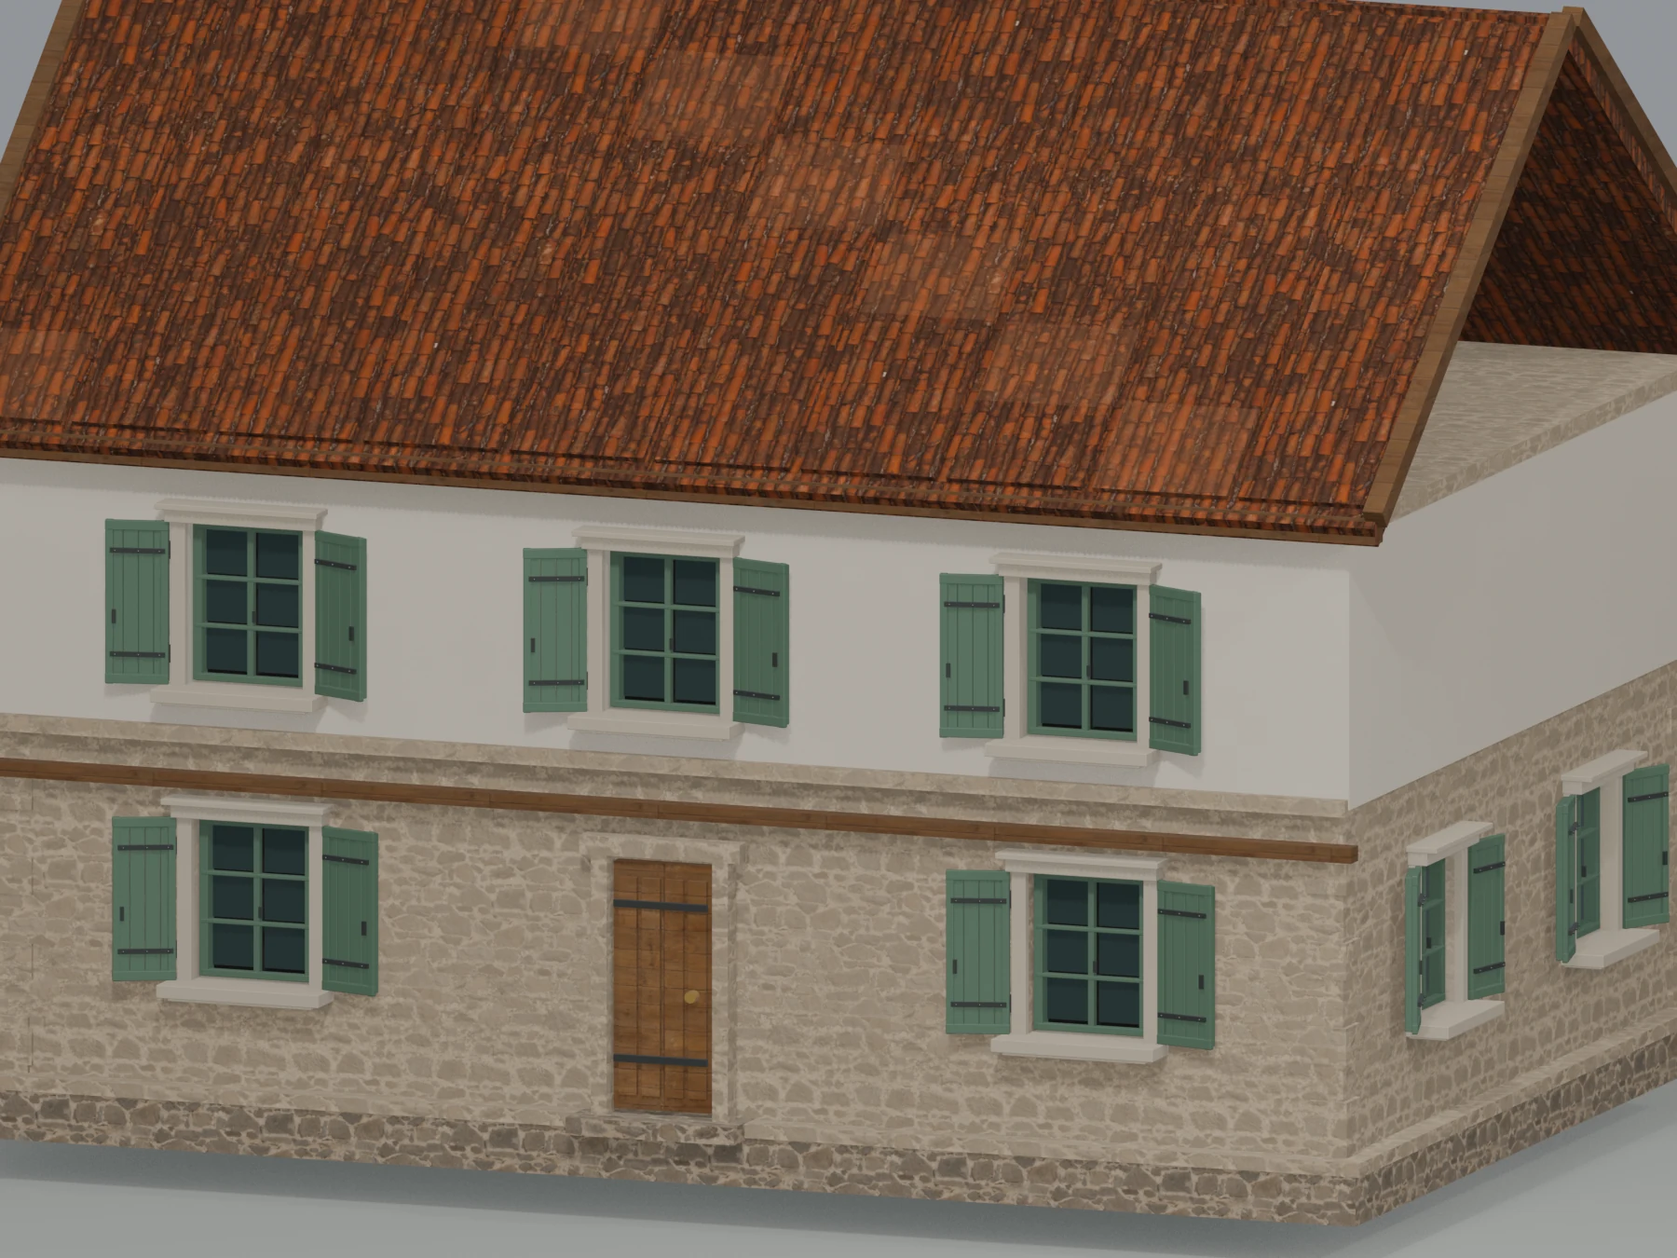
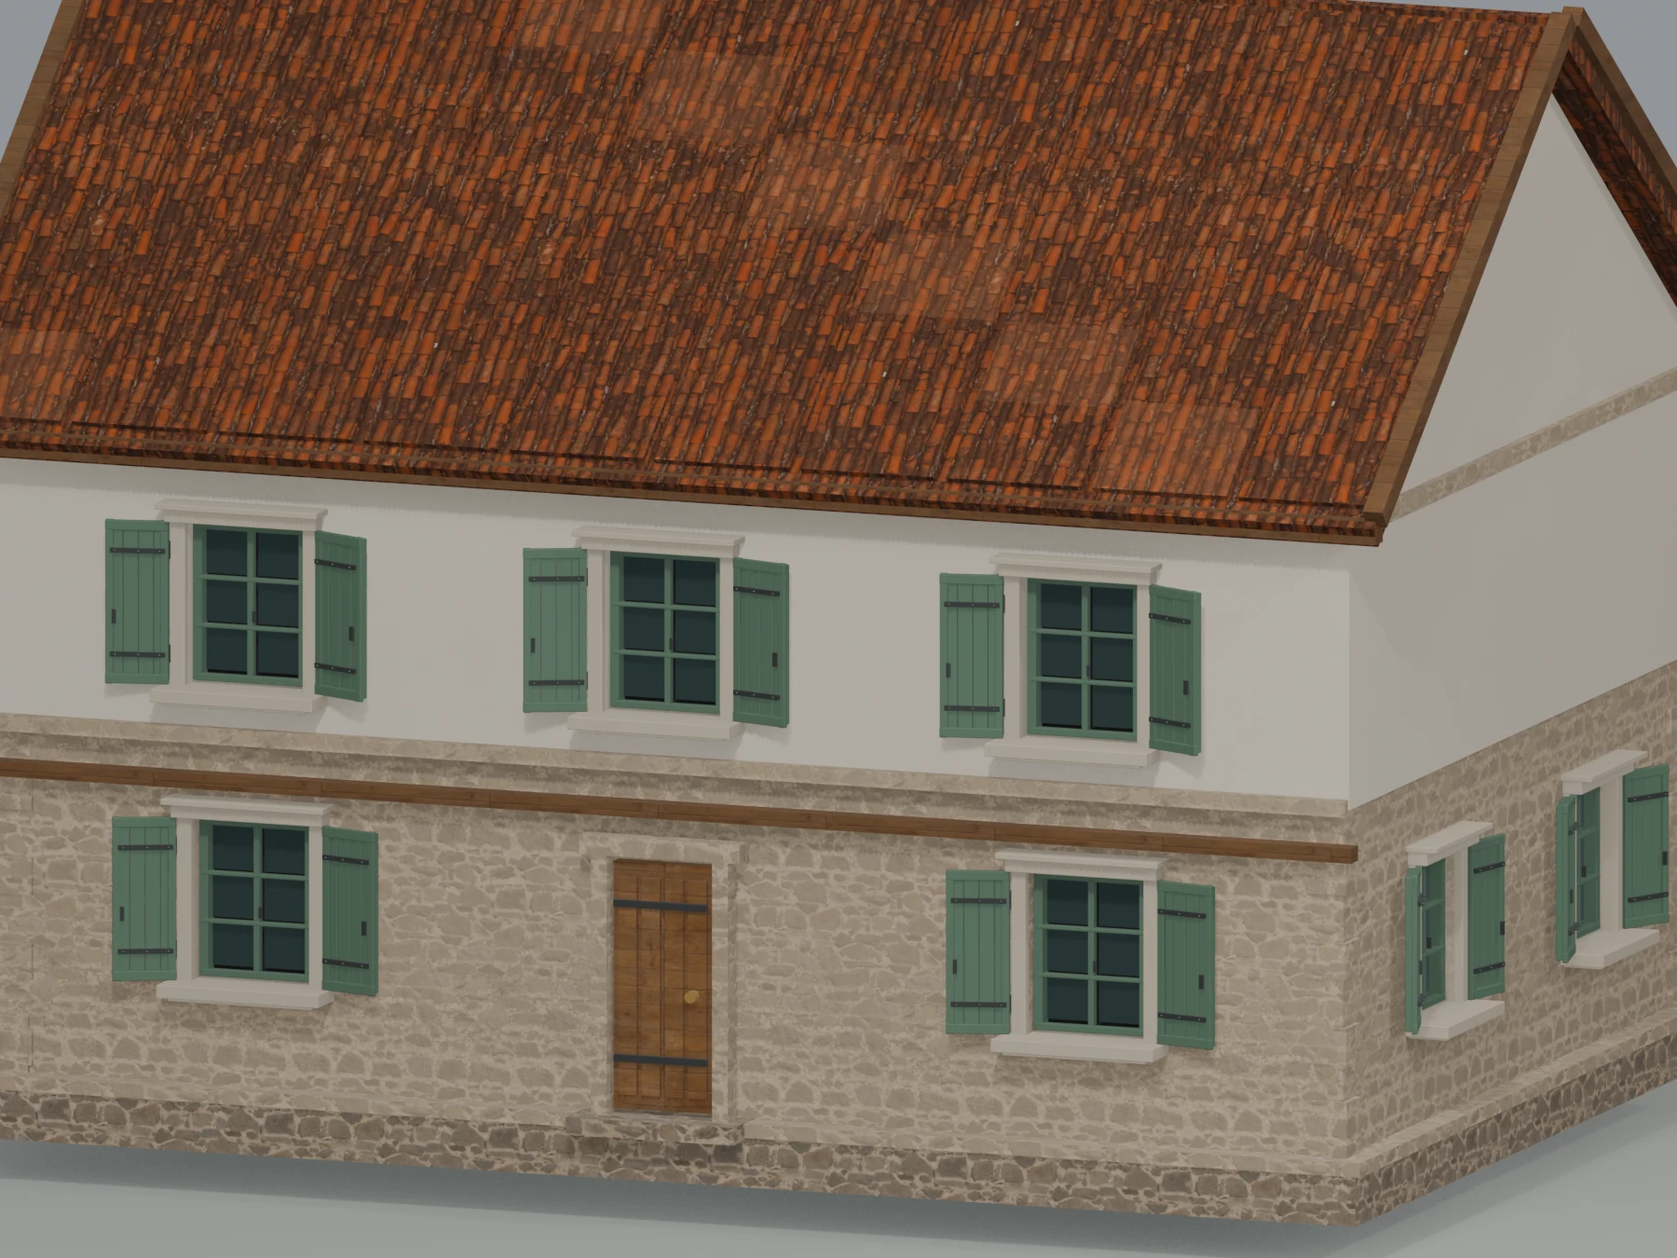
Close missing gable walls in house and town hall showcase models

Changed region(s): [[0.84, 0.0622, 1.0, 0.4044]]

diff --git a/site/model-closeups.html b/site/model-closeups.html
@@ -330,13 +330,13 @@ footer a{color:var(--gold)}
   </a>
   <div class="caption"><div class="eyebrow">Town interiors</div><h3>Warehouse Ground</h3><p>Close-up studio render of the exported Warehouse Ground model.</p><span class="credit">Big Sim model · see CREDITS.md for source notes</span><code class="source">art/city_buildings/interiors/warehouse_ground.glb</code></div>
 </article><article class="card">
-  <a class="image" href="images/gallery/model-closeup-art-city-buildings-models-apothecary.webp?v=town-windows-20261024" aria-label="Open full size image: Apothecary">
-    <img src="images/gallery/model-closeup-art-city-buildings-models-apothecary.webp?v=town-windows-20261024" alt="Apothecary — Close-up studio render of the exported Apothecary model." loading="lazy">
+  <a class="image" href="images/gallery/model-closeup-art-city-buildings-models-apothecary.webp?v=closed-roof-gables-20261024" aria-label="Open full size image: Apothecary">
+    <img src="images/gallery/model-closeup-art-city-buildings-models-apothecary.webp?v=closed-roof-gables-20261024" alt="Apothecary — Close-up studio render of the exported Apothecary model." loading="lazy">
   </a>
   <div class="caption"><div class="eyebrow">Town exteriors</div><h3>Apothecary</h3><p>Close-up studio render of the exported Apothecary model.</p><span class="credit">Big Sim model · see CREDITS.md for source notes</span><code class="source">art/city_buildings/models/apothecary.glb</code></div>
 </article><article class="card">
-  <a class="image" href="images/gallery/model-closeup-art-city-buildings-models-bakers-shop.webp?v=town-windows-20261024" aria-label="Open full size image: Bakers Shop">
-    <img src="images/gallery/model-closeup-art-city-buildings-models-bakers-shop.webp?v=town-windows-20261024" alt="Bakers Shop — Close-up studio render of the exported Bakers Shop model." loading="lazy">
+  <a class="image" href="images/gallery/model-closeup-art-city-buildings-models-bakers-shop.webp?v=closed-roof-gables-20261024" aria-label="Open full size image: Bakers Shop">
+    <img src="images/gallery/model-closeup-art-city-buildings-models-bakers-shop.webp?v=closed-roof-gables-20261024" alt="Bakers Shop — Close-up studio render of the exported Bakers Shop model." loading="lazy">
   </a>
   <div class="caption"><div class="eyebrow">Town exteriors</div><h3>Bakers Shop</h3><p>Close-up studio render of the exported Bakers Shop model.</p><span class="credit">Big Sim model · see CREDITS.md for source notes</span><code class="source">art/city_buildings/models/bakers_shop.glb</code></div>
 </article><article class="card">
@@ -345,8 +345,8 @@ footer a{color:var(--gold)}
   </a>
   <div class="caption"><div class="eyebrow">Town exteriors</div><h3>Chapel</h3><p>Close-up studio render of the exported Chapel model.</p><span class="credit">Big Sim model · see CREDITS.md for source notes</span><code class="source">art/city_buildings/models/chapel.glb</code></div>
 </article><article class="card">
-  <a class="image" href="images/gallery/model-closeup-art-city-buildings-models-cloth-merchants-house.webp?v=town-windows-20261024" aria-label="Open full size image: Cloth Merchants House">
-    <img src="images/gallery/model-closeup-art-city-buildings-models-cloth-merchants-house.webp?v=town-windows-20261024" alt="Cloth Merchants House — Close-up studio render of the exported Cloth Merchants House model." loading="lazy">
+  <a class="image" href="images/gallery/model-closeup-art-city-buildings-models-cloth-merchants-house.webp?v=closed-roof-gables-20261024" aria-label="Open full size image: Cloth Merchants House">
+    <img src="images/gallery/model-closeup-art-city-buildings-models-cloth-merchants-house.webp?v=closed-roof-gables-20261024" alt="Cloth Merchants House — Close-up studio render of the exported Cloth Merchants House model." loading="lazy">
   </a>
   <div class="caption"><div class="eyebrow">Town exteriors</div><h3>Cloth Merchants House</h3><p>Close-up studio render of the exported Cloth Merchants House model.</p><span class="credit">Big Sim model · see CREDITS.md for source notes</span><code class="source">art/city_buildings/models/cloth_merchants_house.glb</code></div>
 </article><article class="card">
@@ -370,8 +370,8 @@ footer a{color:var(--gold)}
   </a>
   <div class="caption"><div class="eyebrow">Town exteriors</div><h3>Inn</h3><p>Close-up studio render of the exported Inn model.</p><span class="credit">Big Sim model · see CREDITS.md for source notes</span><code class="source">art/city_buildings/models/inn.glb</code></div>
 </article><article class="card">
-  <a class="image" href="images/gallery/model-closeup-art-city-buildings-models-merchant-house.webp?v=town-windows-20261024" aria-label="Open full size image: Merchant House">
-    <img src="images/gallery/model-closeup-art-city-buildings-models-merchant-house.webp?v=town-windows-20261024" alt="Merchant House — Close-up studio render of the exported Merchant House model." loading="lazy">
+  <a class="image" href="images/gallery/model-closeup-art-city-buildings-models-merchant-house.webp?v=closed-roof-gables-20261024" aria-label="Open full size image: Merchant House">
+    <img src="images/gallery/model-closeup-art-city-buildings-models-merchant-house.webp?v=closed-roof-gables-20261024" alt="Merchant House — Close-up studio render of the exported Merchant House model." loading="lazy">
   </a>
   <div class="caption"><div class="eyebrow">Town exteriors</div><h3>Merchant House</h3><p>Close-up studio render of the exported Merchant House model.</p><span class="credit">Big Sim model · see CREDITS.md for source notes</span><code class="source">art/city_buildings/models/merchant_house.glb</code></div>
 </article><article class="card">
@@ -380,13 +380,13 @@ footer a{color:var(--gold)}
   </a>
   <div class="caption"><div class="eyebrow">Town exteriors</div><h3>Oil Street Lantern</h3><p>Close-up studio render of the exported Oil Street Lantern model.</p><span class="credit">Big Sim model · see CREDITS.md for source notes</span><code class="source">art/city_buildings/models/oil_street_lantern.glb</code></div>
 </article><article class="card">
-  <a class="image" href="images/gallery/model-closeup-art-city-buildings-models-row-house.webp?v=town-windows-20261024" aria-label="Open full size image: Row House">
-    <img src="images/gallery/model-closeup-art-city-buildings-models-row-house.webp?v=town-windows-20261024" alt="Row House — Close-up studio render of the exported Row House model." loading="lazy">
+  <a class="image" href="images/gallery/model-closeup-art-city-buildings-models-row-house.webp?v=closed-roof-gables-20261024" aria-label="Open full size image: Row House">
+    <img src="images/gallery/model-closeup-art-city-buildings-models-row-house.webp?v=closed-roof-gables-20261024" alt="Row House — Close-up studio render of the exported Row House model." loading="lazy">
   </a>
   <div class="caption"><div class="eyebrow">Town exteriors</div><h3>Row House</h3><p>Close-up studio render of the exported Row House model.</p><span class="credit">Big Sim model · see CREDITS.md for source notes</span><code class="source">art/city_buildings/models/row_house.glb</code></div>
 </article><article class="card">
-  <a class="image" href="images/gallery/model-closeup-art-city-buildings-models-row-house-west-variant.webp?v=town-windows-20261024" aria-label="Open full size image: Row House West Variant">
-    <img src="images/gallery/model-closeup-art-city-buildings-models-row-house-west-variant.webp?v=town-windows-20261024" alt="Row House West Variant — Close-up studio render of the exported Row House West Variant model." loading="lazy">
+  <a class="image" href="images/gallery/model-closeup-art-city-buildings-models-row-house-west-variant.webp?v=closed-roof-gables-20261024" aria-label="Open full size image: Row House West Variant">
+    <img src="images/gallery/model-closeup-art-city-buildings-models-row-house-west-variant.webp?v=closed-roof-gables-20261024" alt="Row House West Variant — Close-up studio render of the exported Row House West Variant model." loading="lazy">
   </a>
   <div class="caption"><div class="eyebrow">Town exteriors</div><h3>Row House West Variant</h3><p>Close-up studio render of the exported Row House West Variant model.</p><span class="credit">Big Sim model · see CREDITS.md for source notes</span><code class="source">art/city_buildings/models/row_house_west_variant.glb</code></div>
 </article><article class="card">
@@ -400,8 +400,8 @@ footer a{color:var(--gold)}
   </a>
   <div class="caption"><div class="eyebrow">Town exteriors</div><h3>Stable</h3><p>Close-up studio render of the exported Stable model.</p><span class="credit">Big Sim model · see CREDITS.md for source notes</span><code class="source">art/city_buildings/models/stable.glb</code></div>
 </article><article class="card">
-  <a class="image" href="images/gallery/model-closeup-art-city-buildings-models-town-hall.webp?v=town-windows-20261024" aria-label="Open full size image: Town Hall">
-    <img src="images/gallery/model-closeup-art-city-buildings-models-town-hall.webp?v=town-windows-20261024" alt="Town Hall — Close-up studio render of the exported Town Hall model." loading="lazy">
+  <a class="image" href="images/gallery/model-closeup-art-city-buildings-models-town-hall.webp?v=closed-roof-gables-20261024" aria-label="Open full size image: Town Hall">
+    <img src="images/gallery/model-closeup-art-city-buildings-models-town-hall.webp?v=closed-roof-gables-20261024" alt="Town Hall — Close-up studio render of the exported Town Hall model." loading="lazy">
   </a>
   <div class="caption"><div class="eyebrow">Town exteriors</div><h3>Town Hall</h3><p>Close-up studio render of the exported Town Hall model.</p><span class="credit">Big Sim model · see CREDITS.md for source notes</span><code class="source">art/city_buildings/models/town_hall.glb</code></div>
 </article><article class="card">

diff --git a/site/index.html b/site/index.html
@@ -328,14 +328,14 @@ footer{padding:18px 0 30px;border-top:1px solid var(--line);color:#87918c;font-s
   </a>
   <div class="caption"><div class="eyebrow">World</div><h3>Hercules bronze-faced shield</h3><p>Dark hammered bronze facing, flat edge binding, flush fasteners, and a shallow central boss</p><span class="credit">Big Sim original · Greek aspis study</span></div>
 </article><article class="card" data-category="World" data-detail="false">
-  <a class="image" href="images/gallery/period-town-buildings.webp?v=town-windows-20261024" aria-label="Open full size image: Early-19th-century town buildings">
-    <img src="images/gallery/period-town-buildings.webp?v=town-windows-20261024" alt="Early-19th-century town buildings — Fourteen town buildings with recessed glazing, fitted frames, projecting sills and modeled shutters" loading="lazy">
+  <a class="image" href="images/gallery/period-town-buildings.webp?v=closed-roof-gables-20261024" aria-label="Open full size image: Early-19th-century town buildings">
+    <img src="images/gallery/period-town-buildings.webp?v=closed-roof-gables-20261024" alt="Early-19th-century town buildings — Fourteen town buildings with recessed glazing, fitted frames, projecting sills and modeled shutters" loading="lazy">
     <span class="number">40</span>
   </a>
   <div class="caption"><div class="eyebrow">World</div><h3>Early-19th-century town buildings</h3><p>Fourteen town buildings with recessed glazing, fitted frames, projecting sills and modeled shutters</p><span class="credit">Big Sim original building models</span></div>
-</article><article class="card" data-category="World" data-detail="true"><a class="image" href="images/gallery/row_house-windows-detail.webp?v=town-windows-20261024" aria-label="Open full size image: Town-house window construction"><img src="images/gallery/row_house-windows-detail.webp?v=town-windows-20261024" alt="Town-house window construction — Recessed six-pane casements, projecting stone sills, and boarded shutters with iron hinges" loading="lazy"></a><div class="caption"><div class="eyebrow">World</div><h3>Town-house window construction</h3><p>Recessed six-pane casements, projecting stone sills, and boarded shutters with iron hinges</p><span class="credit">Big Sim original building models</span></div></article><article class="card" data-category="World" data-detail="true"><a class="image" href="images/gallery/cloth_merchants_house-windows-detail.webp?v=town-windows-20261024" aria-label="Open full size image: Cloth merchant windows"><img src="images/gallery/cloth_merchants_house-windows-detail.webp?v=town-windows-20261024" alt="Cloth merchant windows — Blue upper-storey shutters and fitted glazing, with rebuilt ground-floor shop windows" loading="lazy"></a><div class="caption"><div class="eyebrow">World</div><h3>Cloth merchant windows</h3><p>Blue upper-storey shutters and fitted glazing, with rebuilt ground-floor shop windows</p><span class="credit">Big Sim original building models</span></div></article><article class="card" data-category="World" data-detail="true">
-  <a class="image" href="images/gallery/apothecary-shopfront-detail.webp?v=town-windows-20261024" aria-label="Open full size image: Apothecary shopfront">
-    <img src="images/gallery/apothecary-shopfront-detail.webp?v=town-windows-20261024" alt="Apothecary shopfront — Stocked glazed display cases, painted timber joinery, an oak doorway, gilded APOTHEKE lettering, and a hanging pharmacy shield" loading="lazy">
+</article><article class="card" data-category="World" data-detail="true"><a class="image" href="images/gallery/row_house-windows-detail.webp?v=closed-roof-gables-20261024" aria-label="Open full size image: Town-house window construction"><img src="images/gallery/row_house-windows-detail.webp?v=closed-roof-gables-20261024" alt="Town-house window construction — Recessed six-pane casements, projecting stone sills, and boarded shutters with iron hinges" loading="lazy"></a><div class="caption"><div class="eyebrow">World</div><h3>Town-house window construction</h3><p>Recessed six-pane casements, projecting stone sills, and boarded shutters with iron hinges</p><span class="credit">Big Sim original building models</span></div></article><article class="card" data-category="World" data-detail="true"><a class="image" href="images/gallery/cloth_merchants_house-windows-detail.webp?v=closed-roof-gables-20261024" aria-label="Open full size image: Cloth merchant windows"><img src="images/gallery/cloth_merchants_house-windows-detail.webp?v=closed-roof-gables-20261024" alt="Cloth merchant windows — Blue upper-storey shutters and fitted glazing, with rebuilt ground-floor shop windows" loading="lazy"></a><div class="caption"><div class="eyebrow">World</div><h3>Cloth merchant windows</h3><p>Blue upper-storey shutters and fitted glazing, with rebuilt ground-floor shop windows</p><span class="credit">Big Sim original building models</span></div></article><article class="card" data-category="World" data-detail="true">
+  <a class="image" href="images/gallery/apothecary-shopfront-detail.webp?v=closed-roof-gables-20261024" aria-label="Open full size image: Apothecary shopfront">
+    <img src="images/gallery/apothecary-shopfront-detail.webp?v=closed-roof-gables-20261024" alt="Apothecary shopfront — Stocked glazed display cases, painted timber joinery, an oak doorway, gilded APOTHEKE lettering, and a hanging pharmacy shield" loading="lazy">
     <span class="number">41</span>
   </a>
   <div class="caption"><div class="eyebrow">World</div><h3>Apothecary shopfront</h3><p>Stocked glazed display cases, painted timber joinery, an oak doorway, gilded APOTHEKE lettering, and a hanging pharmacy shield</p><span class="credit">Big Sim original building detail</span></div>

diff --git a/site/world-battlefield.html b/site/world-battlefield.html
@@ -130,13 +130,13 @@ footer a{color:var(--gold)}
   </a>
   <div class="caption"><div class="eyebrow">World</div><h3>Hercules bronze-faced shield</h3><p>Dark hammered bronze facing, flat edge binding, flush fasteners, and a shallow central boss</p><span class="credit">Big Sim original · Greek aspis study</span></div>
 </article><article class="card">
-  <a class="image" href="images/gallery/period-town-buildings.webp?v=town-windows-20261024" aria-label="Open full size image: Early-19th-century town buildings">
-    <img src="images/gallery/period-town-buildings.webp?v=town-windows-20261024" alt="Early-19th-century town buildings — Fourteen town buildings with recessed glazing, fitted frames, projecting sills and modeled shutters" loading="lazy">
+  <a class="image" href="images/gallery/period-town-buildings.webp?v=closed-roof-gables-20261024" aria-label="Open full size image: Early-19th-century town buildings">
+    <img src="images/gallery/period-town-buildings.webp?v=closed-roof-gables-20261024" alt="Early-19th-century town buildings — Fourteen town buildings with recessed glazing, fitted frames, projecting sills and modeled shutters" loading="lazy">
   </a>
   <div class="caption"><div class="eyebrow">World</div><h3>Early-19th-century town buildings</h3><p>Fourteen town buildings with recessed glazing, fitted frames, projecting sills and modeled shutters</p><span class="credit">Big Sim original building models</span></div>
-</article><article class="card" data-category="World" data-detail="true"><a class="image" href="images/gallery/row_house-windows-detail.webp?v=town-windows-20261024" aria-label="Open full size image: Town-house window construction"><img src="images/gallery/row_house-windows-detail.webp?v=town-windows-20261024" alt="Town-house window construction — Recessed six-pane casements, projecting stone sills, and boarded shutters with iron hinges" loading="lazy"></a><div class="caption"><div class="eyebrow">World</div><h3>Town-house window construction</h3><p>Recessed six-pane casements, projecting stone sills, and boarded shutters with iron hinges</p><span class="credit">Big Sim original building models</span></div></article><article class="card" data-category="World" data-detail="true"><a class="image" href="images/gallery/cloth_merchants_house-windows-detail.webp?v=town-windows-20261024" aria-label="Open full size image: Cloth merchant windows"><img src="images/gallery/cloth_merchants_house-windows-detail.webp?v=town-windows-20261024" alt="Cloth merchant windows — Blue upper-storey shutters and fitted glazing, with rebuilt ground-floor shop windows" loading="lazy"></a><div class="caption"><div class="eyebrow">World</div><h3>Cloth merchant windows</h3><p>Blue upper-storey shutters and fitted glazing, with rebuilt ground-floor shop windows</p><span class="credit">Big Sim original building models</span></div></article><article class="card">
-  <a class="image" href="images/gallery/apothecary-shopfront-detail.webp?v=town-windows-20261024" aria-label="Open full size image: Apothecary shopfront">
-    <img src="images/gallery/apothecary-shopfront-detail.webp?v=town-windows-20261024" alt="Apothecary shopfront — Stocked glazed display cases, painted timber joinery, an oak doorway, gilded APOTHEKE lettering, and a hanging pharmacy shield" loading="lazy">
+</article><article class="card" data-category="World" data-detail="true"><a class="image" href="images/gallery/row_house-windows-detail.webp?v=closed-roof-gables-20261024" aria-label="Open full size image: Town-house window construction"><img src="images/gallery/row_house-windows-detail.webp?v=closed-roof-gables-20261024" alt="Town-house window construction — Recessed six-pane casements, projecting stone sills, and boarded shutters with iron hinges" loading="lazy"></a><div class="caption"><div class="eyebrow">World</div><h3>Town-house window construction</h3><p>Recessed six-pane casements, projecting stone sills, and boarded shutters with iron hinges</p><span class="credit">Big Sim original building models</span></div></article><article class="card" data-category="World" data-detail="true"><a class="image" href="images/gallery/cloth_merchants_house-windows-detail.webp?v=closed-roof-gables-20261024" aria-label="Open full size image: Cloth merchant windows"><img src="images/gallery/cloth_merchants_house-windows-detail.webp?v=closed-roof-gables-20261024" alt="Cloth merchant windows — Blue upper-storey shutters and fitted glazing, with rebuilt ground-floor shop windows" loading="lazy"></a><div class="caption"><div class="eyebrow">World</div><h3>Cloth merchant windows</h3><p>Blue upper-storey shutters and fitted glazing, with rebuilt ground-floor shop windows</p><span class="credit">Big Sim original building models</span></div></article><article class="card">
+  <a class="image" href="images/gallery/apothecary-shopfront-detail.webp?v=closed-roof-gables-20261024" aria-label="Open full size image: Apothecary shopfront">
+    <img src="images/gallery/apothecary-shopfront-detail.webp?v=closed-roof-gables-20261024" alt="Apothecary shopfront — Stocked glazed display cases, painted timber joinery, an oak doorway, gilded APOTHEKE lettering, and a hanging pharmacy shield" loading="lazy">
   </a>
   <div class="caption"><div class="eyebrow">World</div><h3>Apothecary shopfront</h3><p>Stocked glazed display cases, painted timber joinery, an oak doorway, gilded APOTHEKE lettering, and a hanging pharmacy shield</p><span class="credit">Big Sim original building detail</span></div>
 </article><article class="card">
